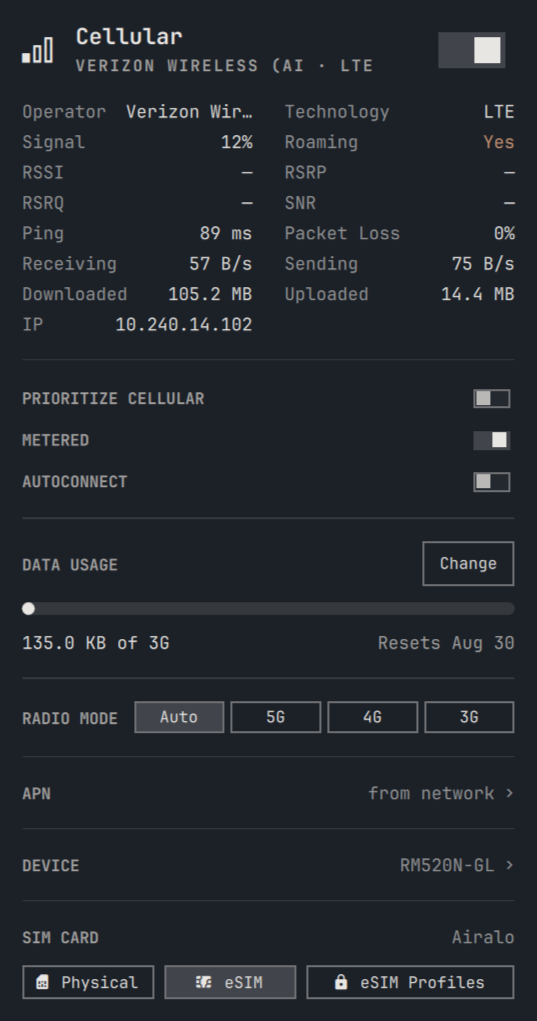
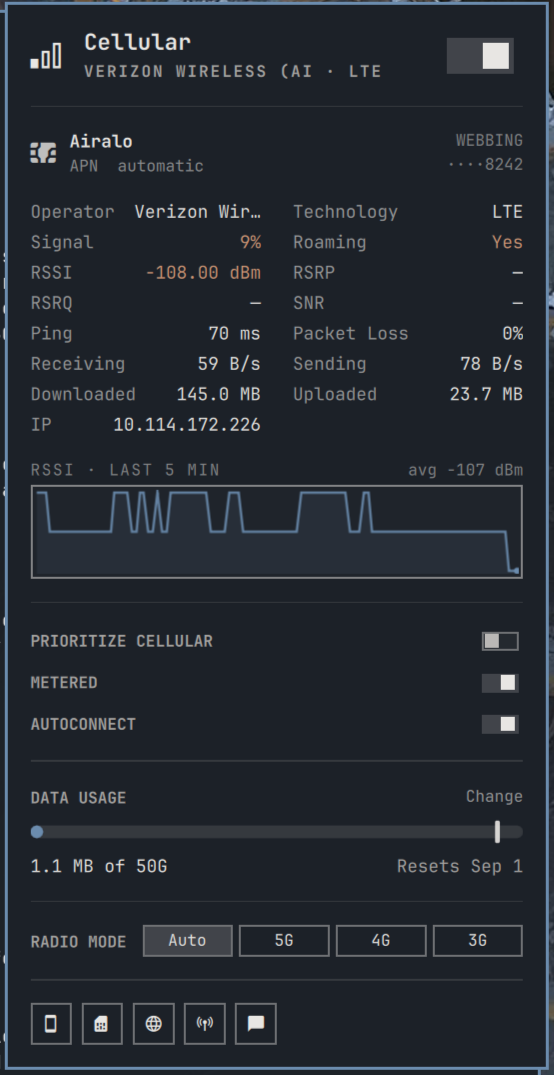
Recapture the README previews from the current panel
Four shots — resting panel, SIM selection, carrier browser, device
details — trimmed to the panel border, each with a caption.

diff --git a/README.md b/README.md
@@ -4,10 +4,20 @@ A cellular plugin for [Omarchy](https://omarchy.org/). It adds a bar widget with
 control panel, and a CLI. NetworkManager, ModemManager and busctl do the work of managing
 the modem.
 
-<p>
-  <img src="preview.png" alt="The Cellular panel as it sits day to day" width="46%">
-  <img src="preview-expanded.png" alt="The Cellular panel with every section opened" width="46%">
-</p>
+<table>
+<tr valign="top">
+<td width="50%"><img src="preview.png" alt="The Cellular panel at rest"><br>
+<sub>The panel: active card, connection stats, signal history, data meter, radio mode.</sub></td>
+<td width="50%"><img src="preview-sims.png" alt="SIM card selection"><br>
+<sub>Every card the modem holds — physical and eSIM profiles — switched with a click. Opening a section folds the rest away.</sub></td>
+</tr>
+<tr valign="top">
+<td><img src="preview-carriers.png" alt="The carrier database browser"><br>
+<sub>The carrier database inline: country, carrier, APN — applied on tap.</sub></td>
+<td><img src="preview-device.png" alt="Device details"><br>
+<sub>Device identity down to the control port. Identifiers are masked for screenshots and copied on click.</sub></td>
+</tr>
+</table>
 
 ## Install
 
